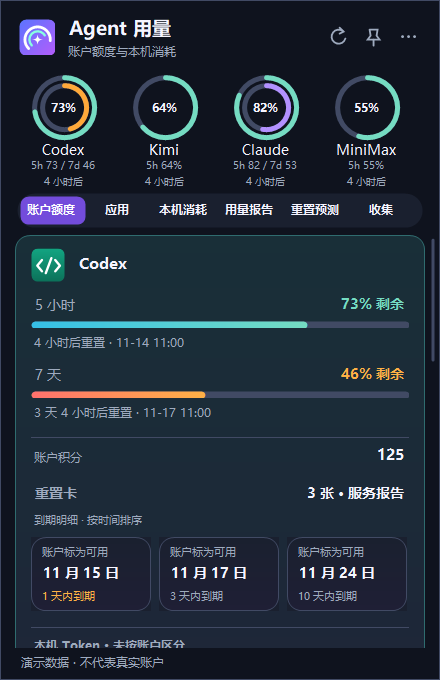
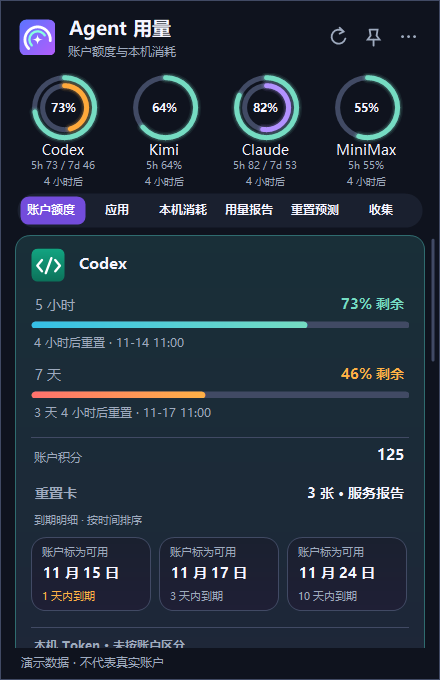
更新 Alpha 26 下载与界面预览

diff --git a/README.md b/README.md
@@ -10,11 +10,11 @@
 [![Windows 构建](https://github.com/FoxBai/agent-meter-windows/actions/workflows/windows-port.yml/badge.svg)](https://github.com/FoxBai/agent-meter-windows/actions/workflows/windows-port.yml)
 [![许可证：MIT](https://img.shields.io/badge/License-MIT-blue.svg)](LICENSE)
 
-[下载](https://github.com/FoxBai/agent-meter-windows/releases/tag/windows-v0.1.0-alpha.25) · [快速使用](windows/QUICK_START.md) · [更新记录](windows/CHANGELOG.md) · [移植进度](windows/PORT_PLAN.md) · [English](README.en.md)
+[下载](https://github.com/FoxBai/agent-meter-windows/releases/tag/windows-v0.1.0-alpha.26) · [快速使用](windows/QUICK_START.md) · [更新记录](windows/CHANGELOG.md) · [移植进度](windows/PORT_PLAN.md) · [English](README.en.md)
 
 </div>
 
-基于 [Gary23333/agent-meter](https://github.com/Gary23333/agent-meter) 的独立 Windows 移植版。当前为 **Alpha 25**：已有可运行的便携包，功能、材质和动效仍在向 macOS 原版靠拢。
+基于 [Gary23333/agent-meter](https://github.com/Gary23333/agent-meter) 的独立 Windows 移植版。当前为 **Alpha 26**：已有可运行的便携包，功能、材质和动效仍在向 macOS 原版靠拢。
 
 <p align="center">
   <img src="windows/assets/screenshot.png" width="400" alt="深色托盘弹层，虚构演示数据">
@@ -25,7 +25,7 @@
 
 ## 三步开始
 
-1. 从 [Alpha 25 发布页](https://github.com/FoxBai/agent-meter-windows/releases/tag/windows-v0.1.0-alpha.25) 下载 `AgentMeter-Windows-x64.zip`。
+1. 从 [Alpha 26 发布页](https://github.com/FoxBai/agent-meter-windows/releases/tag/windows-v0.1.0-alpha.26) 下载 `AgentMeter-Windows-x64.zip`。
 2. 解压并保留完整文件夹，运行 `AgentMeter.Windows.exe`。便携包已包含运行环境；WorkBuddy 和小米 MiMo 登录另需 [WebView2 Runtime](https://developer.microsoft.com/microsoft-edge/webview2/)。
 3. 点击通知区域的图标查看用量；找不到时展开隐藏图标。右键或顶部三个圆点可切换账户、托盘余量和界面风格。
 

diff --git a/README.en.md b/README.en.md
@@ -81,7 +81,7 @@ The new Kimi, OpenCode, MiniMax Code, MiMo Code, DevECo and Qoder CN readers hav
 
 ### Download the preview
 
-Download [Windows v0.1.0-alpha.25](https://github.com/FoxBai/agent-meter-windows/releases/tag/windows-v0.1.0-alpha.25), extract `AgentMeter-Windows-x64.zip`, and run `AgentMeter.Windows.exe` from the extracted folder. The portable bundle includes the application runtime; WorkBuddy and MiMo require a separately installed WebView2 Runtime. The preview is not code-signed; the release page includes a SHA-256 checksum. Isolated Windows checks cover deactivation, pinning, owned windows, Esc and scrolling. Real taskbar, multi-monitor, high-DPI and a separate clean physical installation remain unverified.
+Download [Windows v0.1.0-alpha.26](https://github.com/FoxBai/agent-meter-windows/releases/tag/windows-v0.1.0-alpha.26), extract `AgentMeter-Windows-x64.zip`, and run `AgentMeter.Windows.exe` from the extracted folder. The portable bundle includes the application runtime; WorkBuddy and MiMo require a separately installed WebView2 Runtime. The preview is not code-signed; the release page includes a SHA-256 checksum. Isolated Windows checks cover deactivation, pinning, owned windows, Esc and scrolling. Real taskbar, multi-monitor, high-DPI and a separate clean physical installation remain unverified.
 
 ### Build from source
 

diff --git a/windows/PORT_PLAN.md b/windows/PORT_PLAN.md
@@ -21,6 +21,8 @@
 
 ## 当前证据和限制
 
[1 lines of base64/hex data omitted]
+
[1 lines of base64/hex data omitted]
 
[1 lines of base64/hex data omitted]
